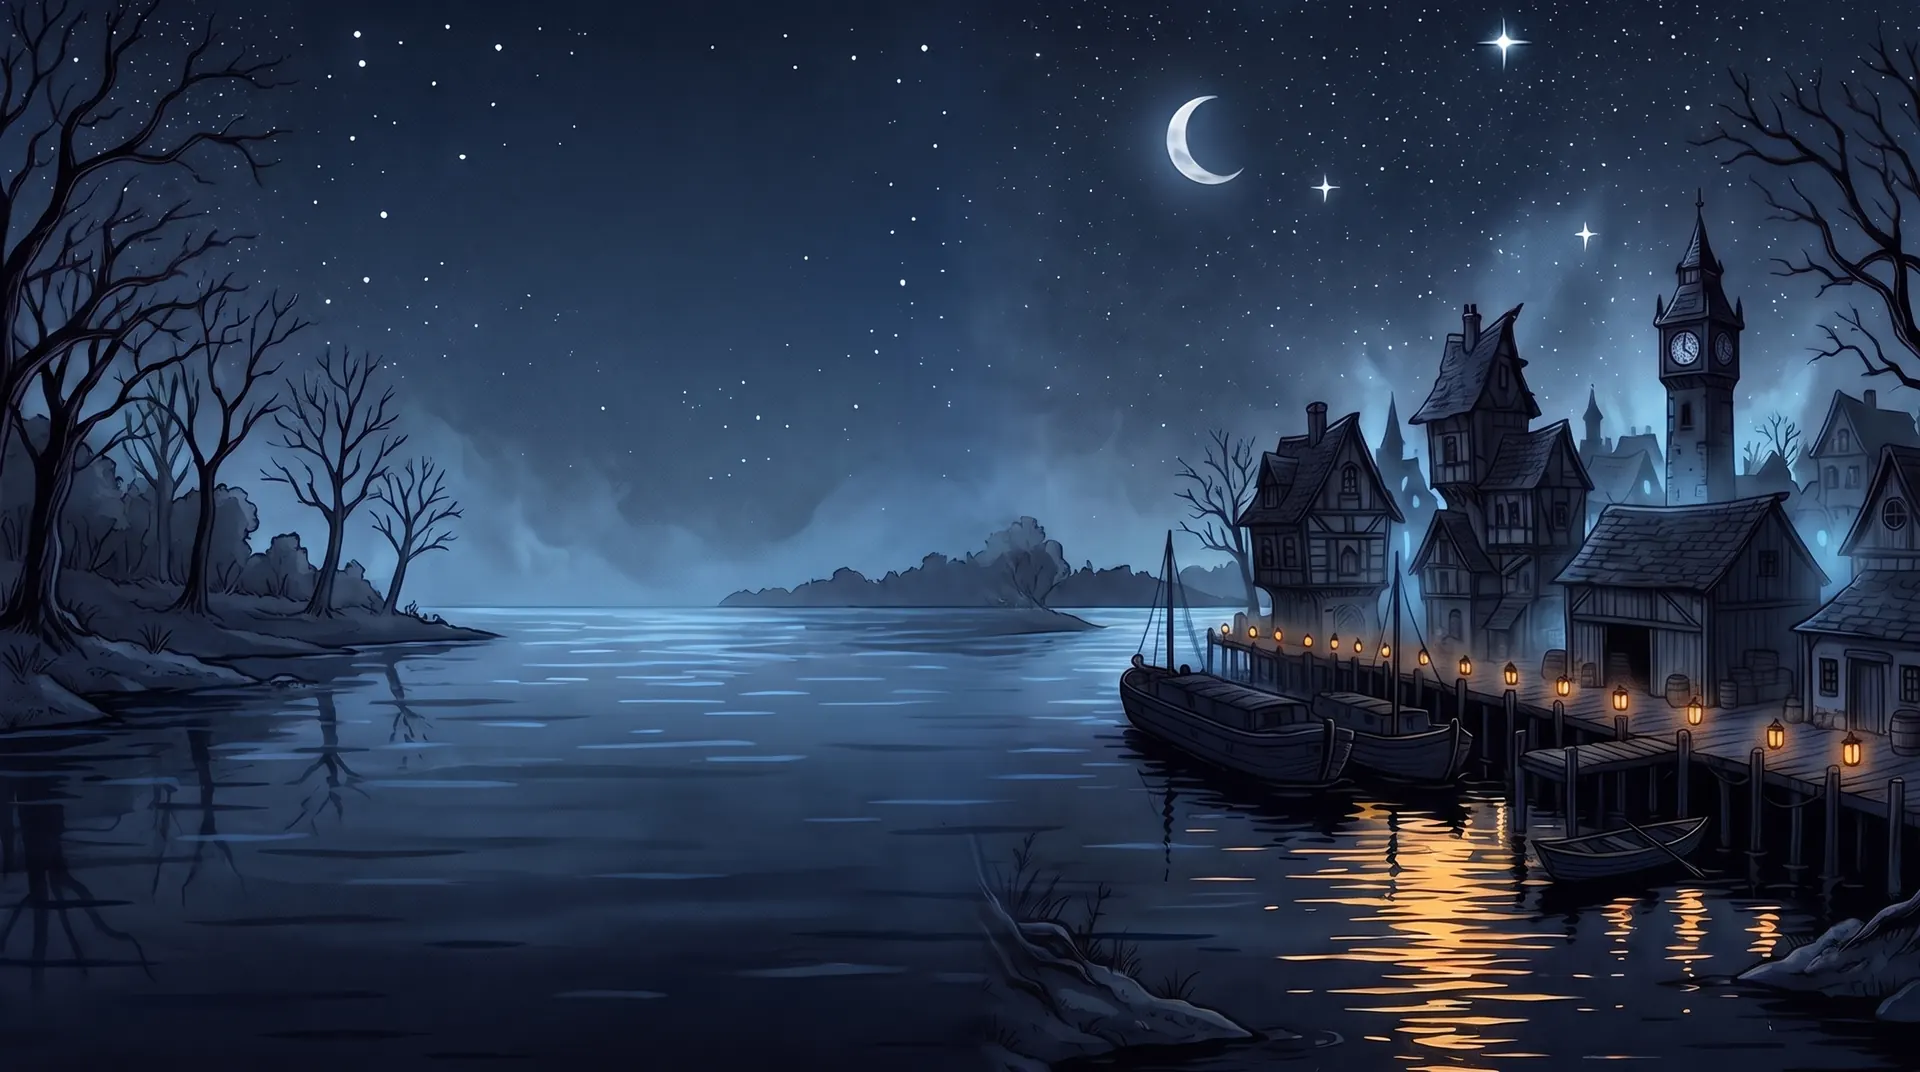
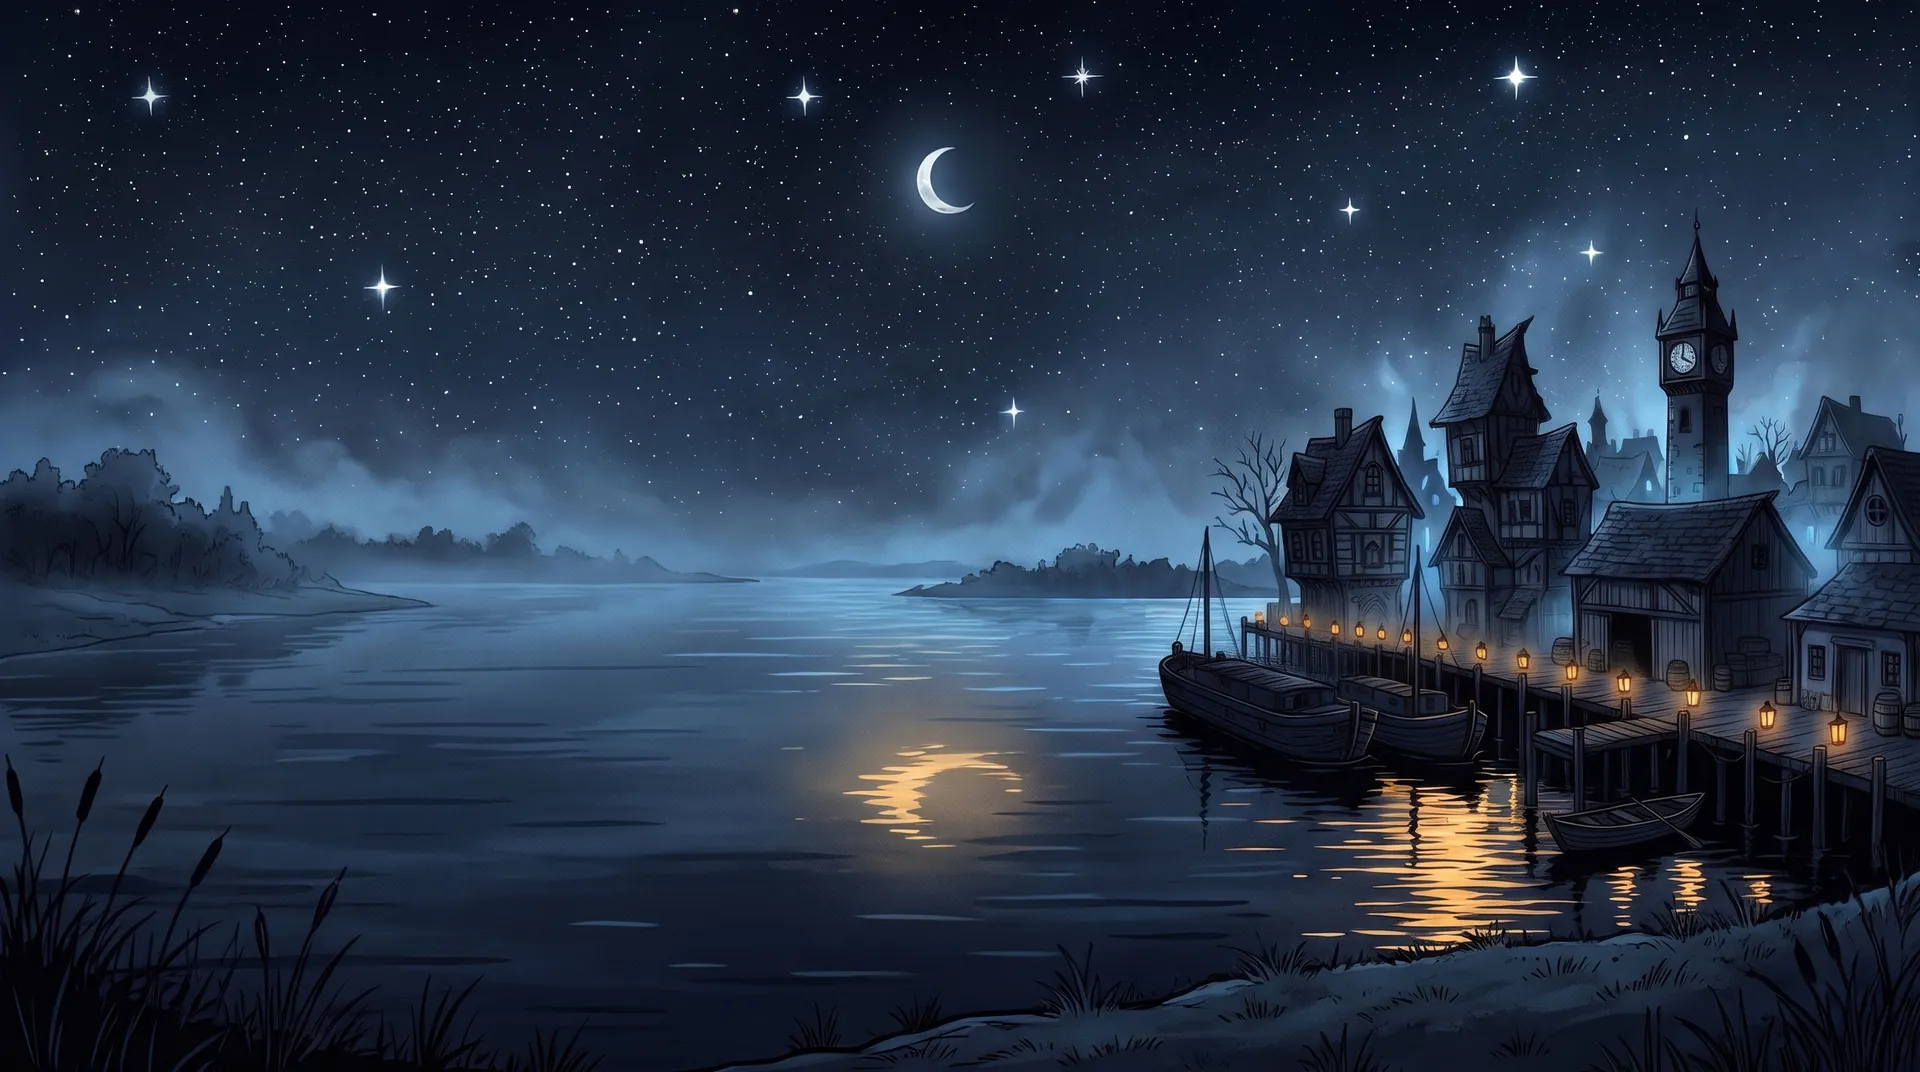
Publish 4174a2a: desktop home background v3b, cache v8

diff --git a/sw.js b/sw.js
@@ -1,7 +1,7 @@
 // Lanterns & Lies service worker (12 Nov): fast reopening and push notifications.
 // Built files have hashed names, so they never change: cache first. Pictures and fonts keep their names, so they
 // are served from the cache at once and refreshed in the background. The page itself always tries the network first.
-const CACHE = "lnl-v7"; // v7: desktop layout and wide backgrounds (14 Nov)
+const CACHE = "lnl-v8"; // v8: desktop home background v3b (14 Nov)
 const SCOPE = self.registration.scope;
 
 self.addEventListener("install", () => self.skipWaiting());
